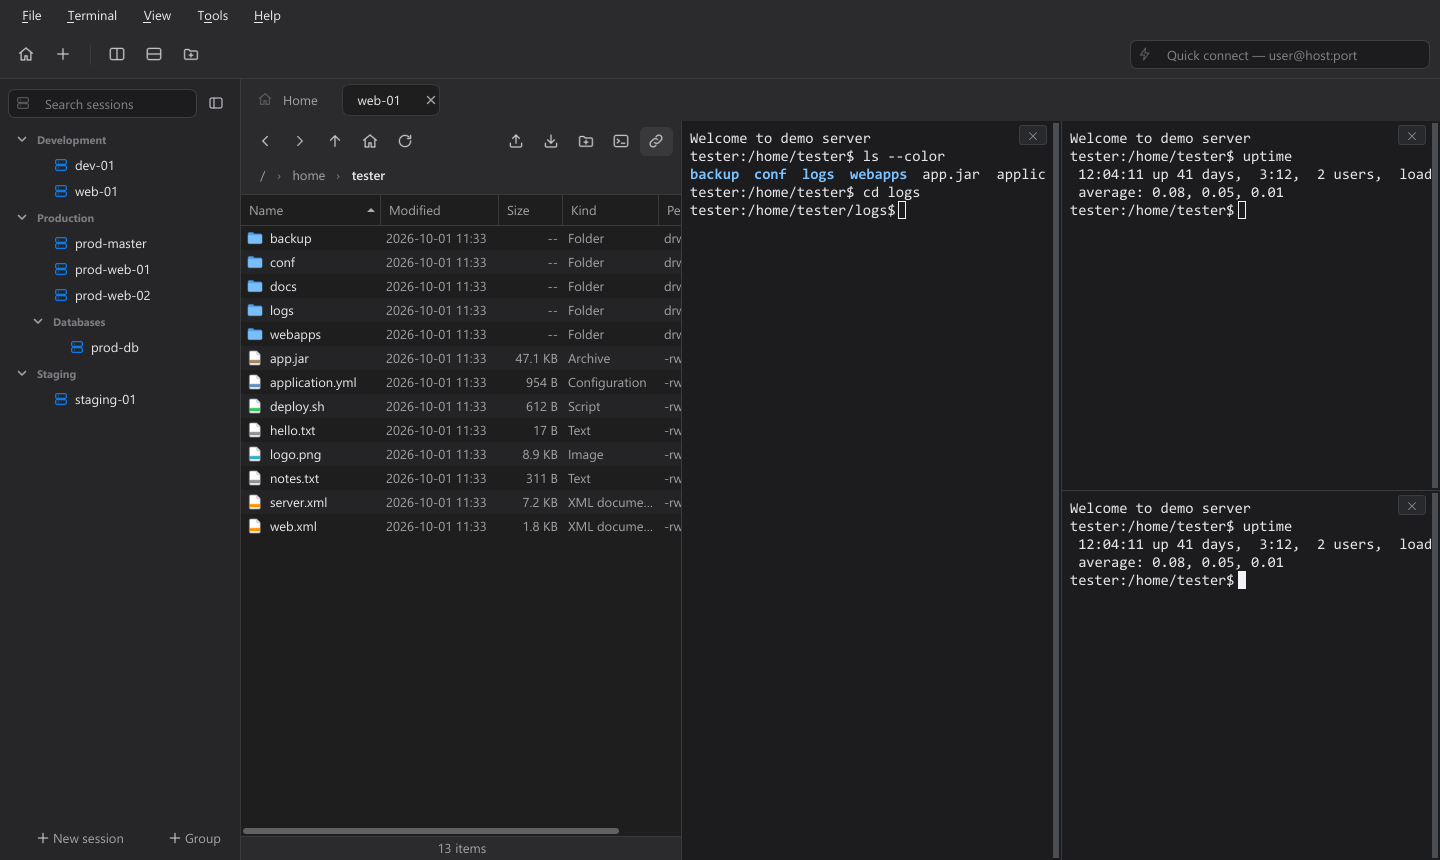
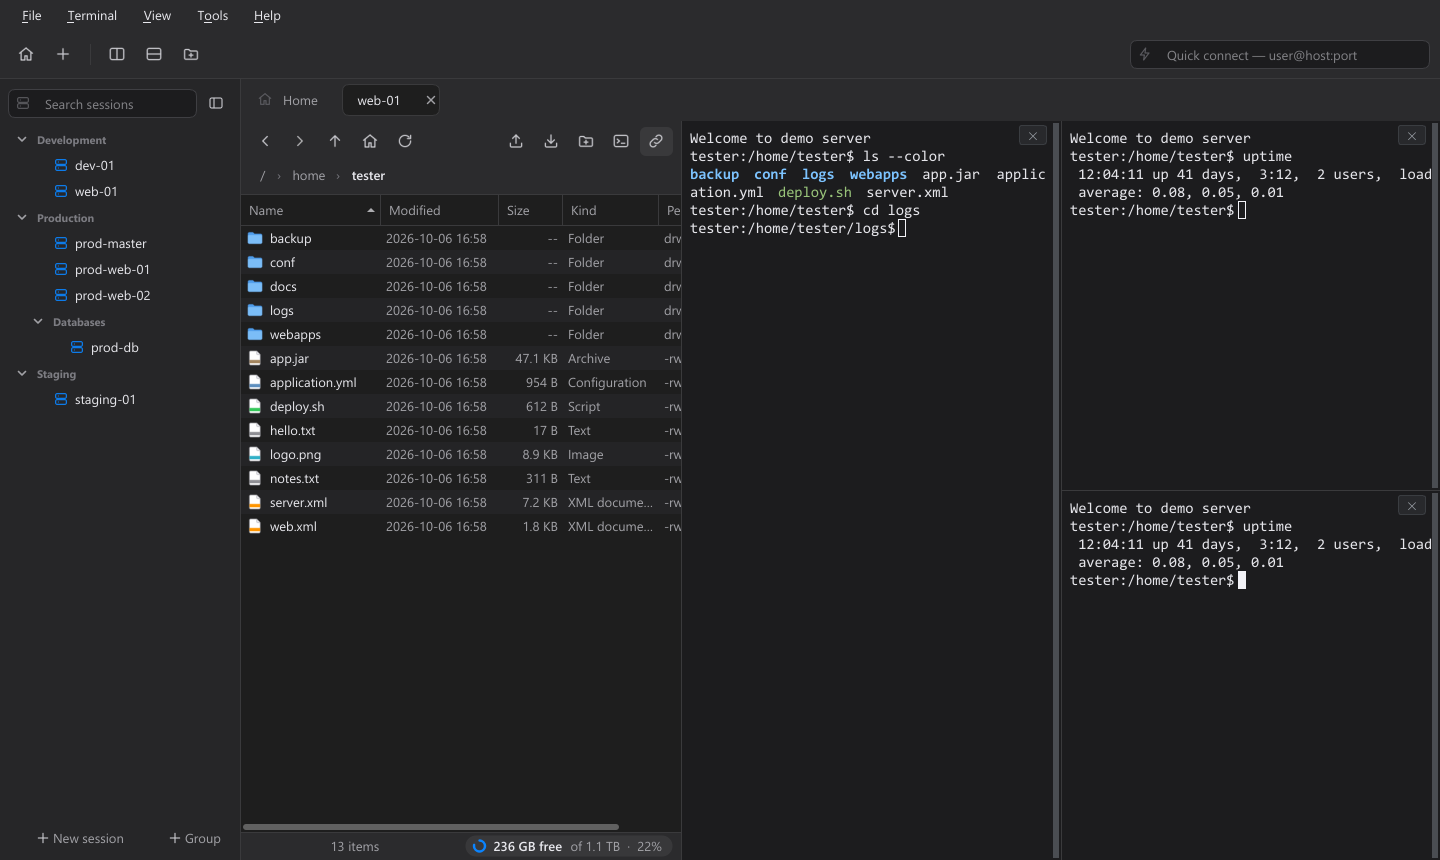
README: new screenshots — disk space, getting started guide, host card rings

Changed region(s): [[0.1562, 0.9372, 0.4688, 0.9977], [0.4688, 0.2116, 0.6562, 0.2721], [0.3125, 0.3326, 0.3438, 0.3628]]

diff --git a/tools/make_readme_media.py b/tools/make_readme_media.py
@@ -53,7 +53,14 @@ def main() -> int:
     srv.stdout.readline()
     app = QApplication([])
     QMessageBox.question = staticmethod(lambda *a, **k: QMessageBox.StandardButton.Yes)
-    from jeopsokheyou import config, i18n
+    from jeopsokheyou import config, diskusage, i18n
+    # Disk space: the fake server has no statvfs, so show made-up numbers (nothing real is captured)
+    gb = 1 << 30
+    diskusage.read_mounts = lambda sftp: ("/dev/sda1 / ext4 rw 0 0\n/dev/sdb1 /data xfs rw 0 0\n"
+                                          "/dev/sdc1 /var/log ext4 rw 0 0\n192.0.2.50:/vol1 /backup nfs4 rw 0 0\n")
+    fake_disks = {"/": (50 * gb, 21 * gb, 29 * gb), "/data": (1024 * gb, 820 * gb, 204 * gb),
+                  "/var/log": (20 * gb, 17 * gb, 3 * gb)}
+    diskusage.statvfs = lambda sftp, path: fake_disks.get(path)
     from jeopsokheyou.config import Session
     from jeopsokheyou.mainwindow import MainWindow, apply_dark_theme
     apply_dark_theme(app)
@@ -102,9 +109,22 @@ def main() -> int:
             s.group = "Production / Databases"
     w.store.save()
     w.reload_sessions()
+    # last disk values on a few host cards
+    import json
+    cache = {}
+    for s, pct in zip([s for s in w.store.sessions if s is not demo][:4], (42, 7, 63, 18)):
+        cache[s.id] = {"time": time.time() - 3600, "mount": "/data", "free_pct": pct, "avail": pct * gb,
+                       "total_avail": pct * gb, "total": 100 * gb, "total_free_pct": pct}
+    diskusage.cache_file().write_text(json.dumps(cache), encoding="utf-8")
     w.apply_appearance(mode="light", ui_font="default")
     w.home.show_page("hosts")
     shot(w, "home.png")
+    # getting-started guide (step 2: the New host button highlighted)
+    t = w.start_tour(from_help=True)
+    t.next()
+    shot(w, "guide.png", frame=False)
+    t.skip()
+    w.home.show_page("hosts")
     w.home.show_page("forwarding")
     shot(w, "port-forwarding.png", frame=False)
     w.home.show_page("hosts")
@@ -117,7 +137,19 @@ def main() -> int:
     pane.feed(b"ls --color\r\n\x1b[1;34mbackup\x1b[0m  \x1b[1;34mconf\x1b[0m  \x1b[1;34mlogs\x1b[0m  "
               b"\x1b[1;34mwebapps\x1b[0m  app.jar  application.yml  \x1b[32mdeploy.sh\x1b[0m  server.xml\r\n"
               b"tester:/home/tester$ ")
+    pump(5, lambda: tab.explorer.disk_pill.isVisible())
     shot(w, "main-light.png")
+    # disk space card over the window (the card is a popup window, so paste it in)
+    tab.explorer.show_disk_card()
+    pump(0.5)
+    base = shot(w, None, frame=False)
+    card = tab.explorer._disk_card
+    card.grab().save(str(WORK / "card.png"))
+    pos = card.mapToGlobal(card.rect().topLeft()) - w.mapToGlobal(w.rect().topLeft())
+    overlay = Image.open(WORK / "card.png").convert("RGBA")
+    base.paste(overlay, (max(0, pos.x()), max(0, pos.y())), overlay)
+    base.save(OUT / "disk.png", optimize=True)
+    card.hide()
 
     # cd in the terminal → the explorer follows
     pane.send_text("cd logs\r")

diff --git a/README.ko.md b/README.ko.md
@@ -68,6 +68,10 @@
     <td width="50%"><img src=".github/media/split-panes.png" alt="한 연결에 터미널 3개" /><br/><sub><b>화면 분할</b> — 좌우·상하 중첩 분할</sub></td>
     <td width="50%"><img src=".github/media/home-dark.png" alt="다크 테마" /><br/><sub><b>다크 모드</b> — 시스템 설정을 따르거나 직접 선택</sub></td>
   </tr>
+  <tr>
+    <td width="50%"><img src=".github/media/disk.png" alt="서버 디스크 용량 카드" /><br/><sub><b>디스크 용량</b> — 모든 디스크를 한눈에, 내가 정한 기준으로 경고</sub></td>
+    <td width="50%"><img src=".github/media/guide.png" alt="시작 가이드" /><br/><sub><b>시작 가이드</b> — 기본 6단계와 차별 기능 3가지</sub></td>
+  </tr>
 </table>
 
 <sub>스크린샷은 영어 UI로 촬영했습니다. 실제 앱은 한국어로 표시됩니다.</sub>

diff --git a/README.md b/README.md
@@ -72,6 +72,10 @@ No account required. Free and open source (GPL-3.0).
     <td width="50%"><img src=".github/media/split-panes.png" alt="Three terminal panes on one connection" /><br/><sub><b>Split panes</b> — nested left/right and top/bottom splits</sub></td>
     <td width="50%"><img src=".github/media/home-dark.png" alt="Dark theme" /><br/><sub><b>Dark mode</b> — follows the system or pick it yourself</sub></td>
   </tr>
+  <tr>
+    <td width="50%"><img src=".github/media/disk.png" alt="Server disk space card" /><br/><sub><b>Disk space</b> — every disk at a glance, warnings at your levels</sub></td>
+    <td width="50%"><img src=".github/media/guide.png" alt="Getting started guide" /><br/><sub><b>Getting started guide</b> — six basics and three differences</sub></td>
+  </tr>
 </table>
 
 ## 📦 Install
